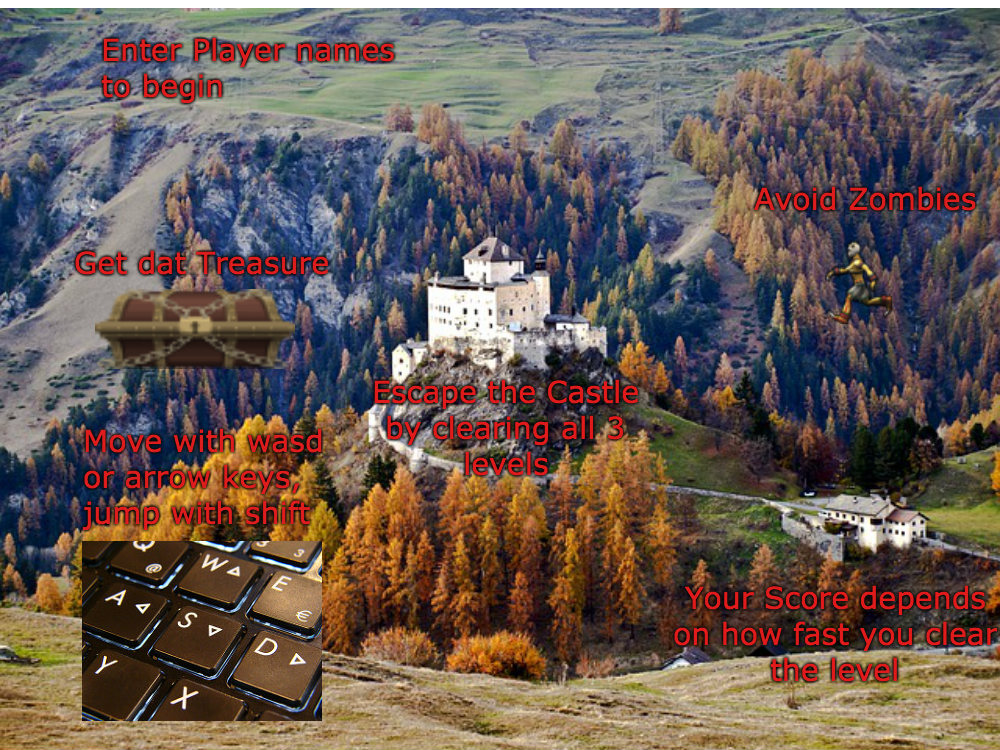
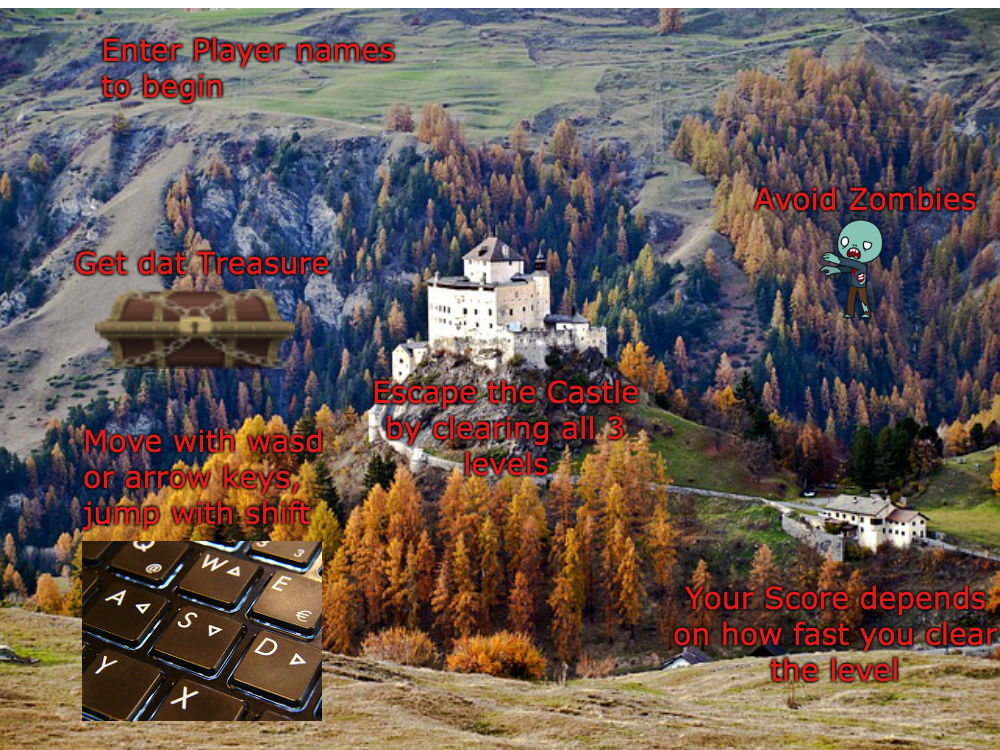
updated images

Changed region(s): [[0.806, 0.276, 0.899, 0.4293]]

diff --git a/project1/scripts/test.js b/project1/scripts/test.js
@@ -50,7 +50,6 @@ function start() {
   createjs.Tween.get(formDOMElement).to({x:stage.canvas.width/2, y:150, rotation:720},2000, createjs.Ease.cubicOut);
 
   // stage.addChild(formDOMElement);
-  stage.addChild()
 }
 
 function subfunc(){
@@ -83,9 +82,9 @@ function init() {
 
   images = [
 		{src: "ninja.png", id: "ninja"},
-		{src: "MonsterARun.png", id: "enemy1"},
+		{src: "zombie.png", id: "enemy1"},
 		{src: "gameover.jpg", id: "gameover"},
-		{src: "player2.png", id:"player2"},
+		{src: "p2ready.jpg", id:"player2"},
 		{src: "chest.png", id:"chest"},
     {src: "ladder2.png", id:"ladder"},
     {src: "floor.png", id:"floor"},
@@ -95,8 +94,7 @@ function init() {
     {src: "2.txt", id:"level2"},
     {src: "3.txt", id:"level3"},
     {src: "win.jpg", id:"win"},
-    {src: "results.png", id:"results"},
-    {src: "setup.jpg", id:"first"}
+    {src: "results.png", id:"results"}
 	];
 
   loader = new createjs.LoadQueue(false);
@@ -337,7 +335,9 @@ function createLevel(lvlname){
 
 
 	function gravityCheck(){
-
+    if (ninja.y > 750){
+      gameOverMan();
+    }
 		if (ninja.jumpTime == 0) {
       ninjaFall();
 		}
@@ -462,7 +462,7 @@ which stops the ticker (animation engine) then calls the gameOverMan method
 			}
 		} else {
 			for (var i = 0; i < enemies.length; i++) {
-				if (Math.abs(ninja.x - enemies[i].x) <= 10){
+				if (Math.abs(ninja.x - enemies[i].x) <= 20){
 					if (Math.abs(ninja.y - enemies[i].y) <= 38){
 							createjs.Ticker.removeAllEventListeners(); //stop the ticker
 							gameOverMan();
@@ -527,7 +527,7 @@ which stops the ticker (animation engine) then calls the gameOverMan method
     if (activeplayer == 1) {
       window.setTimeout(nextPlayer, 4000);
     } else {
-      results();
+      window.setTimeout(results, 4000);
     }
   }
 
@@ -541,7 +541,7 @@ which stops the ticker (animation engine) then calls the gameOverMan method
   }
 
   function results(){
-    var resultsText, textBox, goText;
+    var resultsText, textBox, goText, paText;
     stage = new createjs.Stage("testCanvas");
     var resultsImage = new createjs.Bitmap(loader.getResult("results"));
     if (p1.score > p2.score) {
@@ -555,7 +555,10 @@ which stops the ticker (animation engine) then calls the gameOverMan method
     goText.color = '#bad94a';
     textBox = new textField(resultsText, 40, 220, 'left');
     textBox.color = '#bad94a';
-    stage.addChild(resultsImage, goText, textBox);
+    paText = new textField('Click Here to Play Again', 40, 320, 'left')
+    paText.color = '#bad94a';
+    paText.addEventListener("click", init);
+    stage.addChild(resultsImage, goText, textBox, paText);
     resetAll();
   }
 /*

diff --git a/project1/index.html b/project1/index.html
@@ -6,6 +6,7 @@
     <link rel="stylesheet" href="styles/style.css" media="screen" title="no title" charset="utf-8">
   </head>
   <body>
+
     <form id="myform">
                     <label for="p1name">Player 1's name:</label>
                     <input type="text" id="p1name" maxlength="10"><br>
@@ -29,6 +30,6 @@
 		<!-- <script src="http://code.createjs.com/tweenjs-0.2.0.min.js"></script> -->
     <script src="https://cdnjs.cloudflare.com/ajax/libs/jquery/2.1.4/jquery.js"></script>
     <!-- <script src="https://cdnjs.cloudflare.com/ajax/libs/EaselJS/0.8.0/easeljs.min.js"></script> -->
-    <script src="scripts/ninja.js"></script>
+    <script src="scripts/test.js"></script>
   </body>
 </html>

diff --git a/project1/scripts/ninja.js b/project1/scripts/ninja.js
@@ -95,8 +95,7 @@ function init() {
     {src: "2.txt", id:"level2"},
     {src: "3.txt", id:"level3"},
     {src: "win.jpg", id:"win"},
-    {src: "results.png", id:"results"},
-    {src: "setup.jpg", id:"first"}
+    {src: "results.png", id:"results"}
 	];
 
   loader = new createjs.LoadQueue(false);

diff --git a/project1/styles/style.css b/project1/styles/style.css
@@ -1,3 +1,4 @@
+  
 form{
     display: none;
     font-size: 0.8em;
